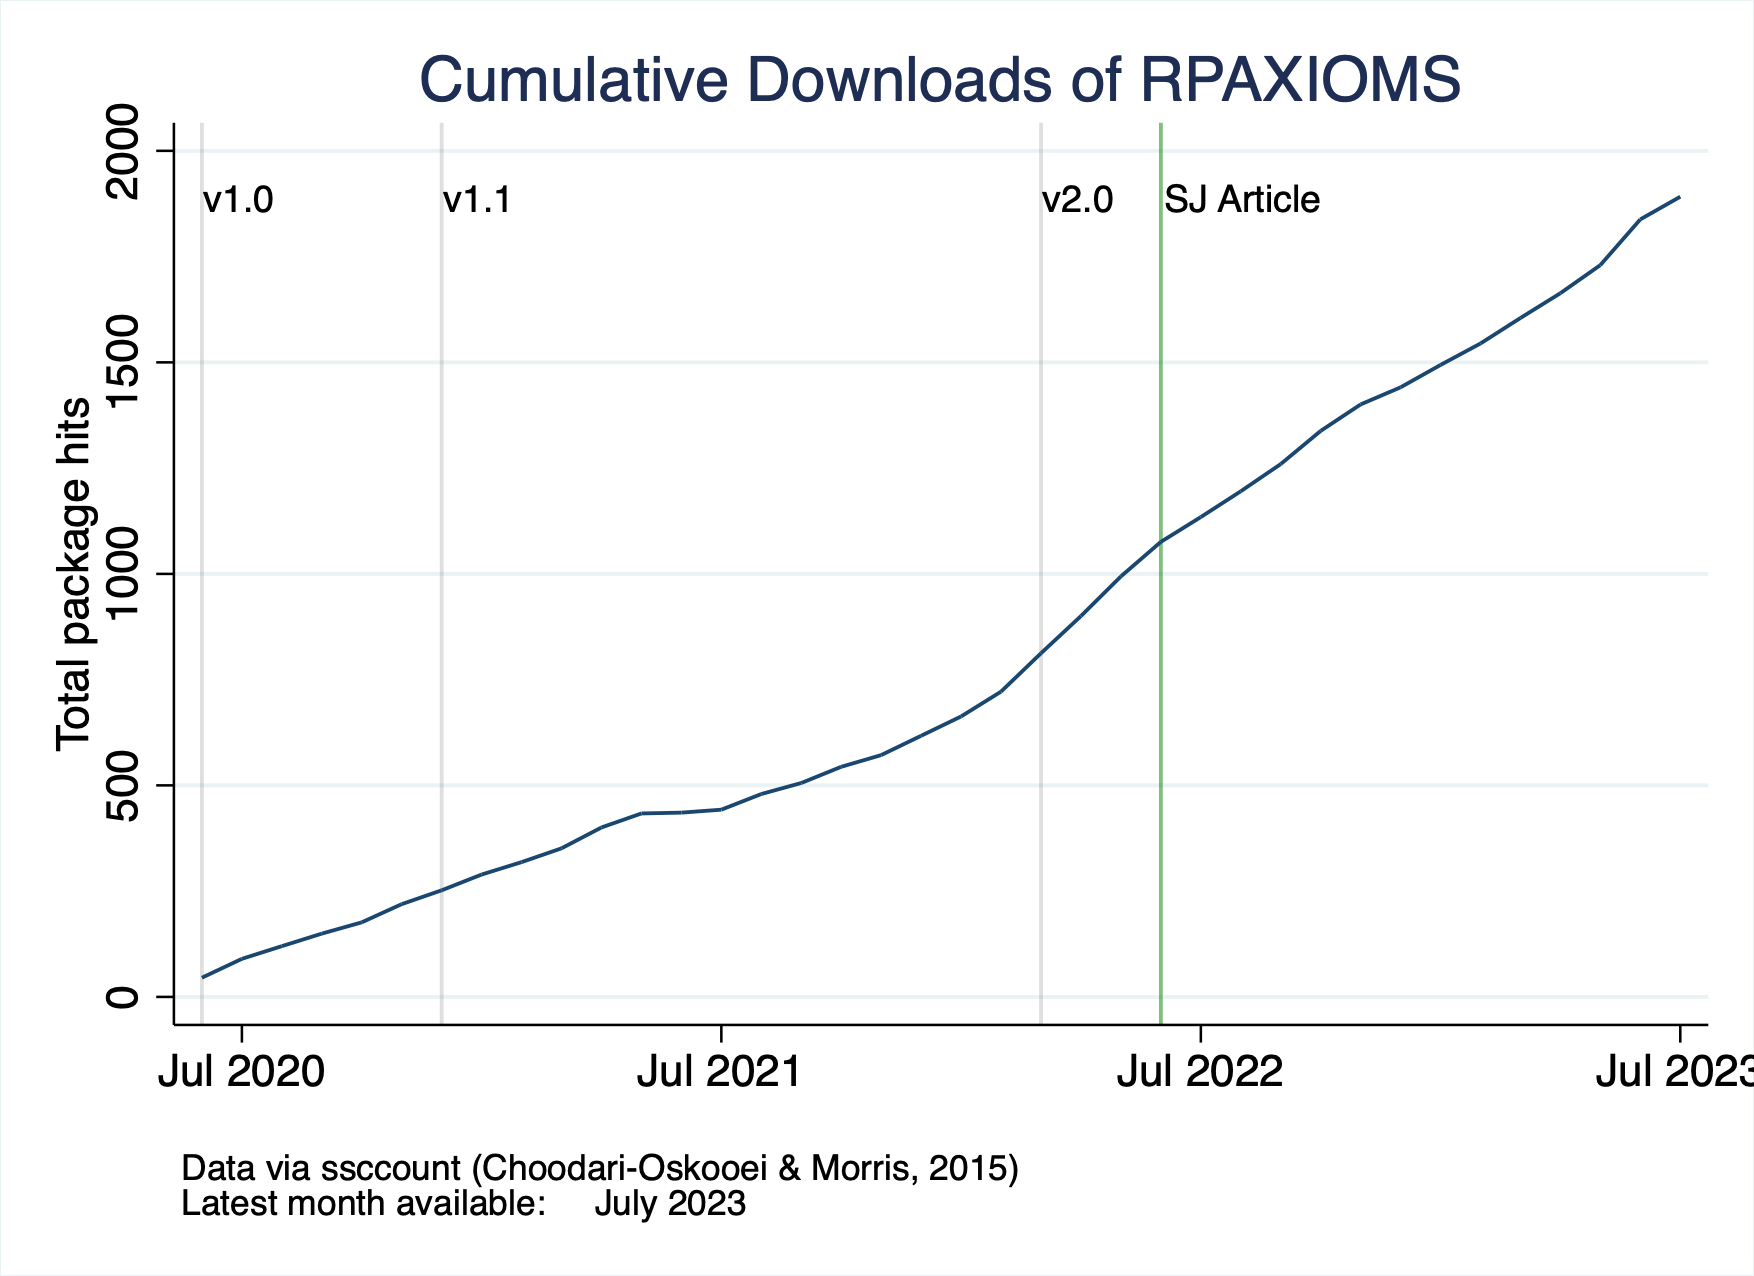
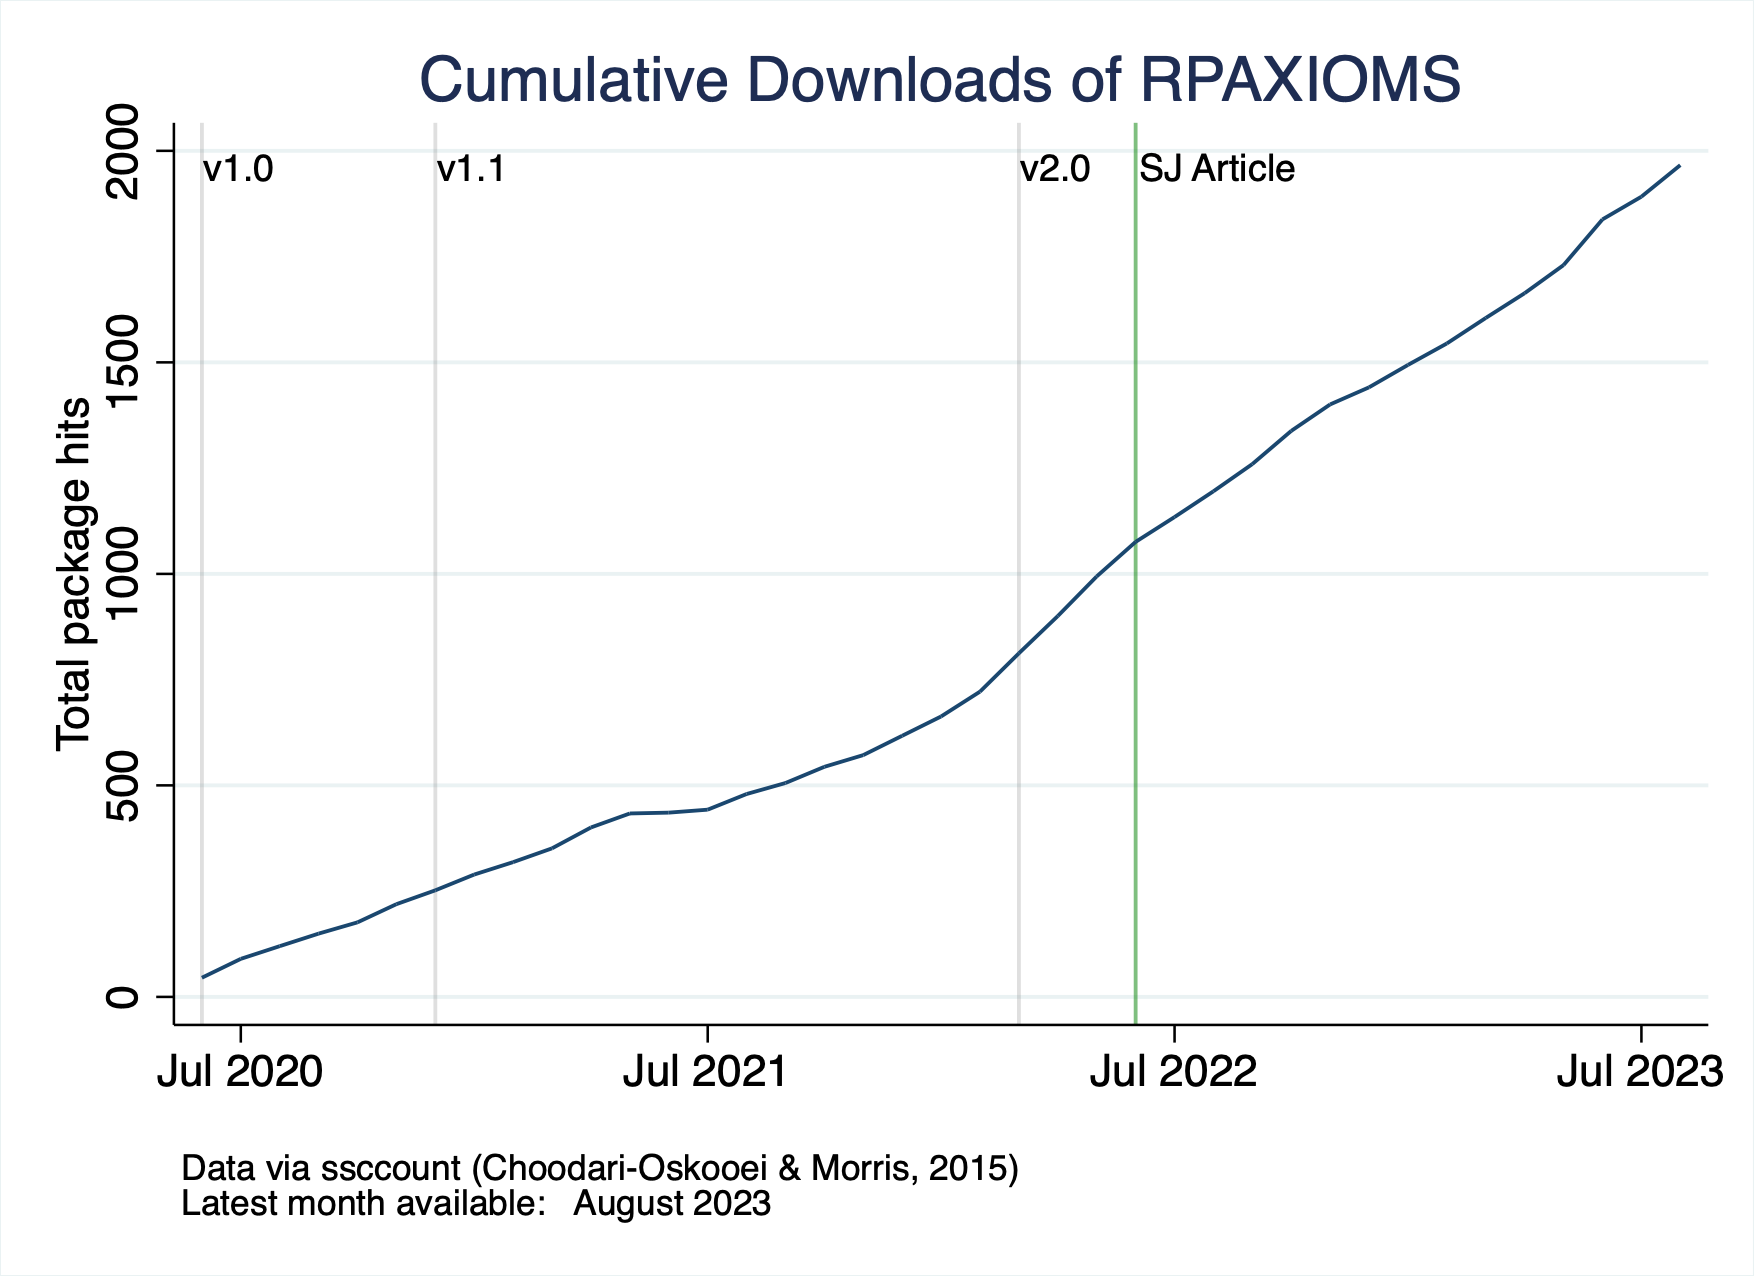
update npkghits

diff --git a/_posts/2022-07-01-rpaxioms.md b/_posts/2022-07-01-rpaxioms.md
@@ -17,7 +17,7 @@ household-level aggregate consumption data.
 ## Citation
 Demetry, M., Hjertstrand, P. and Polisson, M., 2022. Testing axioms of revealed preference in Stata. <i>The Stata Journal</i>, 22(2), pp.319-343.
 
-## Total downloads: 1,891
+## Total downloads: 1,966
 <img src="/assets/img/rpaxioms_cumulative_hits.png" alt="number of downloads" width="100%"/>
 
 <details>

diff --git a/_posts/2022-12-01-hmindex.md b/_posts/2022-12-01-hmindex.md
@@ -13,7 +13,7 @@ note introduces the _Stata_ command __hmindex__, which calculates the Houtman-Ma
 prices and observed choices of a consumer. The command is illustrated with an empirical application.
 
 
-## Total downloads: 730
+## Total downloads: 789
 <img src="/assets/img/hmindex_cumulative_hits.png" alt="number of downloads" width="100%"/>
 
 
